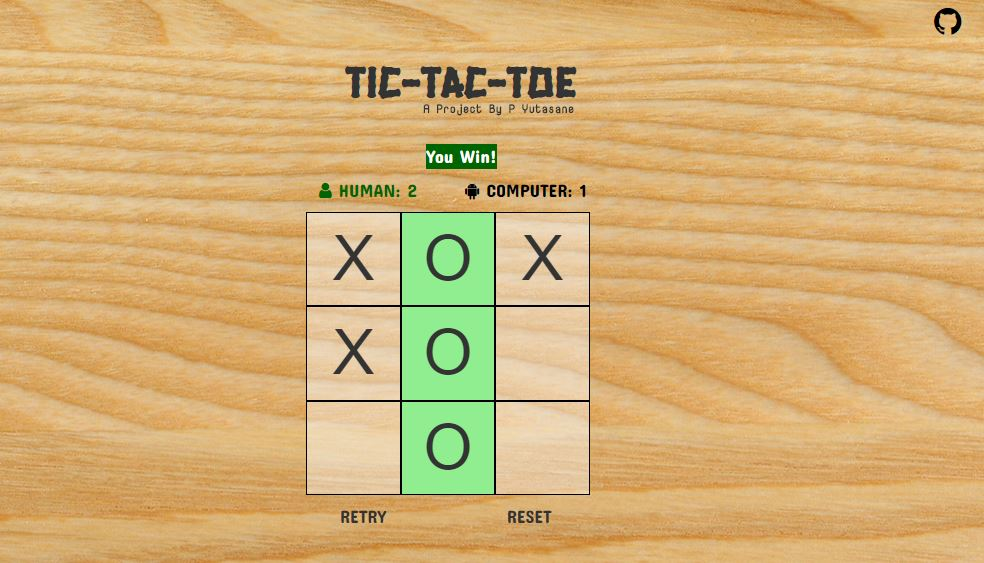
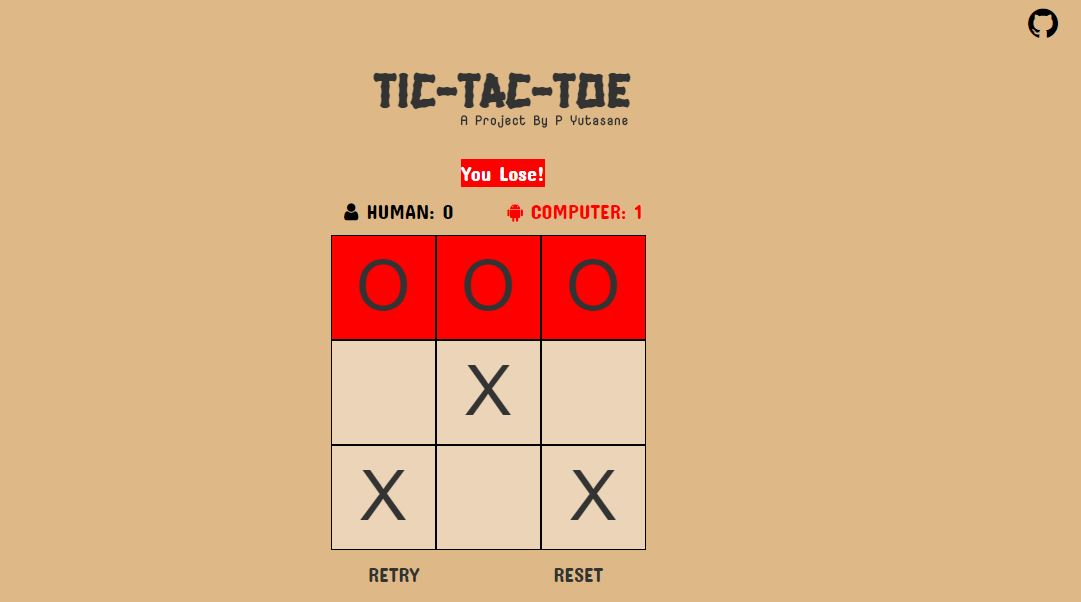
Preview Image Updated

diff --git a/css/tictactoe.css b/css/tictactoe.css
@@ -76,12 +76,11 @@
 
 body{
     background: no-repeat center center fixed;
-    background-image: url('https://madure.files.wordpress.com/2011/05/wood.jpg');
+    background-color: burlywood;
     -webkit-background-size: cover;
     -moz-background-size: cover;
     -o-background-size: cover;
     background-size: cover;
-    height: auto;
 }
 
 .author{
